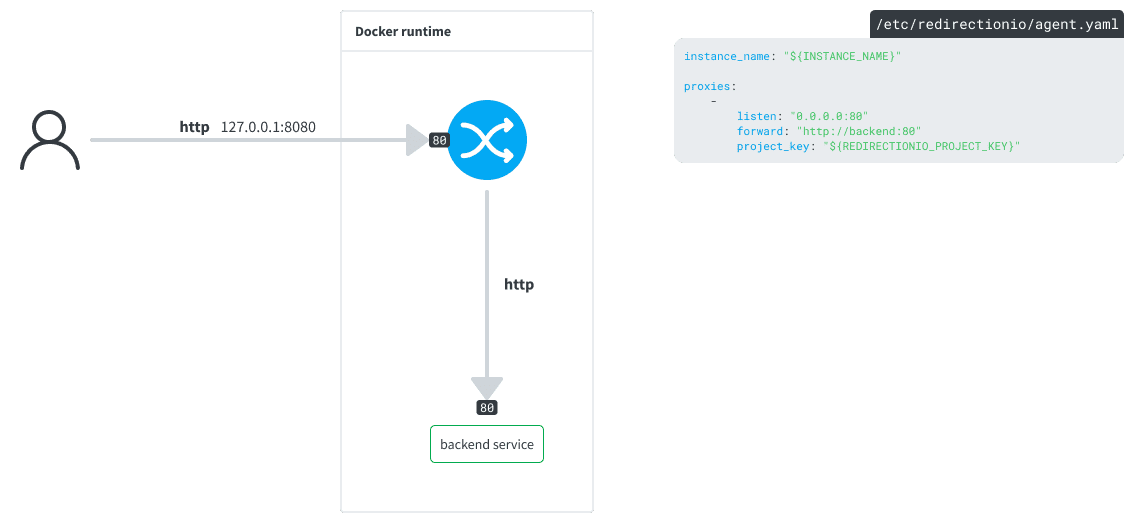
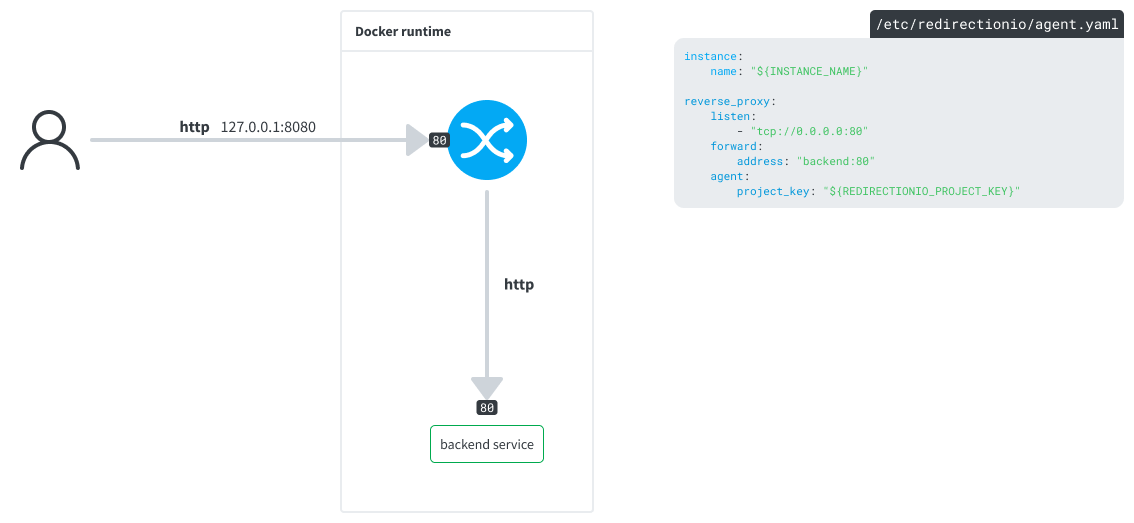
update docker examples to the v3 of redirectionio-agent and proxies

Changed region(s): [[0.5864, 0.0918, 0.8951, 0.3977]]

diff --git a/apache-module/README.md b/apache-module/README.md
@@ -11,17 +11,17 @@ This example shows how to use the pre-compiled redirection.io Apache module prov
 
 The `service` directory contains two services:
 
- * **apache**: an Apache Dockerfile based on the Ubuntu 24.04 image, with Apache and the redirection.io Apache module installed from our apt repository
+ * **apache**: an Apache Dockerfile based on the Debian Trixie image, with Apache and the redirection.io Apache module installed from our apt repository
  * **redirectionio-agent**: a simple Dockerfile to get the agent running
 
 ![The redirection.io apache module](../app/apache-module.png)
 
 ### apache
 
-This is a standard Ubuntu 24.04 image, with the distribution-provided apache2 package, and [libapache2-mod-redirectionio installed from our deb repository, as explained in our documentation](https://redirection.io/documentation/developer-documentation/apache-module#debian-and-apt-based-distributions).
+This is a standard Debian Trixie image, with the distribution-provided apache2 package, and [libapache2-mod-redirectionio installed from our deb repository, as explained in our documentation](https://redirection.io/documentation/developer-documentation/apache-module#debian-and-apt-based-distributions).
 
 It defines a single VirtualHost, [for which redirection is enabled](./services/apache/etc/apache2/sites-enabled/000-default.conf#L15-L16).
 
 ### redirectionio-agent
 
-The agent is installed using our [manual installation](https://redirection.io/documentation/developer-documentation/installation-of-the-agent#manual-installation) instructions. Note that we have enabled a `/var/lib/redirectionio` volume, used to store [redirection.io agent's cache data](https://redirection.io/documentation/developer-documentation/agent-configuration-reference#datadir).
+The agent is installed using our [manual installation](https://redirection.io/documentation/developer-documentation/installation-of-the-agent#manual-installation) instructions. Note that we have enabled a `/var/lib/redirectionio` volume, used to store [redirection.io agent's persisted data](https://redirection.io/documentation/developer-documentation/agent-configuration-reference#persist).

diff --git a/nginx-module/README.md b/nginx-module/README.md
@@ -11,17 +11,17 @@ This example shows how to use the pre-compiled redirection.io nginx module provi
 
 The `service` directory contains two services:
 
- * **nginx**: a nginx Dockerfile based on the Ubuntu 24.04 image, with nginx and the redirection.io nginx module installed from our apt repository
+ * **nginx**: a nginx Dockerfile based on the Debian Trixie image, with nginx and the redirection.io nginx module installed from our apt repository
  * **redirectionio-agent**: a simple Dockerfile to get the agent running
 
 ![The redirection.io nginx module](../app/nginx-module.png)
 
 ### nginx
 
-This is a standard Ubuntu 24.04 image, with the distribution-provided nginx package, and [libnginx-mod-redirectionio installed from our deb repository, as explained in our documentation](https://redirection.io/documentation/developer-documentation/nginx-module#debian-and-apt-based-distributions).
+This is a standard Debian Trixie image, with the distribution-provided nginx package, and [libnginx-mod-redirectionio installed from our deb repository, as explained in our documentation](https://redirection.io/documentation/developer-documentation/nginx-module#debian-and-apt-based-distributions).
 
 It defines a single VirtualHost, [for which redirection is enabled](./services/nginx/default.template#L8-L9).
 
 ### redirectionio-agent
 
-The agent is installed using our [manual installation](https://redirection.io/documentation/developer-documentation/installation-of-the-agent#manual-installation) instructions. Note that we have enabled a `/var/lib/redirectionio` volume, used to store [redirection.io agent's cache data](https://redirection.io/documentation/developer-documentation/agent-configuration-reference#datadir).
+The agent is installed using our [manual installation](https://redirection.io/documentation/developer-documentation/installation-of-the-agent#manual-installation) instructions. Note that we have enabled a `/var/lib/redirectionio` volume, used to store [redirection.io agent's persisted data](https://redirection.io/documentation/developer-documentation/agent-configuration-reference#persist).

diff --git a/agent-as-reverse-proxy/README.md b/agent-as-reverse-proxy/README.md
@@ -15,4 +15,4 @@ The `docker-compose.yml` file also mentions a `nginx` service, which is a simple
 
 ### redirectionio-agent
 
-The agent is installed using our [manual installation](https://redirection.io/documentation/developer-documentation/installation-of-the-agent#manual-installation) instructions. Note that we have enabled a `/var/lib/redirectionio` volume, used to store [redirection.io agent's cache data](https://redirection.io/documentation/developer-documentation/agent-configuration-reference#datadir).
+The agent is installed using our [manual installation](https://redirection.io/documentation/developer-documentation/installation-of-the-agent#manual-installation) instructions. Note that we have enabled a `/var/lib/redirectionio` volume, used to store [redirection.io agent's persisted data](https://redirection.io/documentation/developer-documentation/agent-configuration-reference#persist).

diff --git a/apache-module-custom/README.md b/apache-module-custom/README.md
@@ -30,4 +30,4 @@ This is what the [apache Dockerfile](./services/apache/Dockerfile) achieves. Bas
 
 ### redirectionio-agent
 
-The agent is installed using our [manual installation](https://redirection.io/documentation/developer-documentation/installation-of-the-agent#manual-installation) instructions. Note that we have enabled a `/var/lib/redirectionio` volume, used to store [redirection.io agent's cache data](https://redirection.io/documentation/developer-documentation/agent-configuration-reference#datadir).
+The agent is installed using our [manual installation](https://redirection.io/documentation/developer-documentation/installation-of-the-agent#manual-installation) instructions. Note that we have enabled a `/var/lib/redirectionio` volume, used to store [redirection.io agent's persisted data](https://redirection.io/documentation/developer-documentation/agent-configuration-reference#persist).

diff --git a/nginx-module-custom/README.md b/nginx-module-custom/README.md
@@ -35,4 +35,4 @@ This is what the [nginx Dockerfile](./services/nginx/Dockerfile) achieves. Basic
 
 ### redirectionio-agent
 
-The agent is installed using our [manual installation](https://redirection.io/documentation/developer-documentation/installation-of-the-agent#manual-installation) instructions. Note that we have enabled a `/var/lib/redirectionio` volume, used to store [redirection.io agent's cache data](https://redirection.io/documentation/developer-documentation/agent-configuration-reference#datadir).
+The agent is installed using our [manual installation](https://redirection.io/documentation/developer-documentation/installation-of-the-agent#manual-installation) instructions. Note that we have enabled a `/var/lib/redirectionio` volume, used to store [redirection.io agent's persisted data](https://redirection.io/documentation/developer-documentation/agent-configuration-reference#persist).
